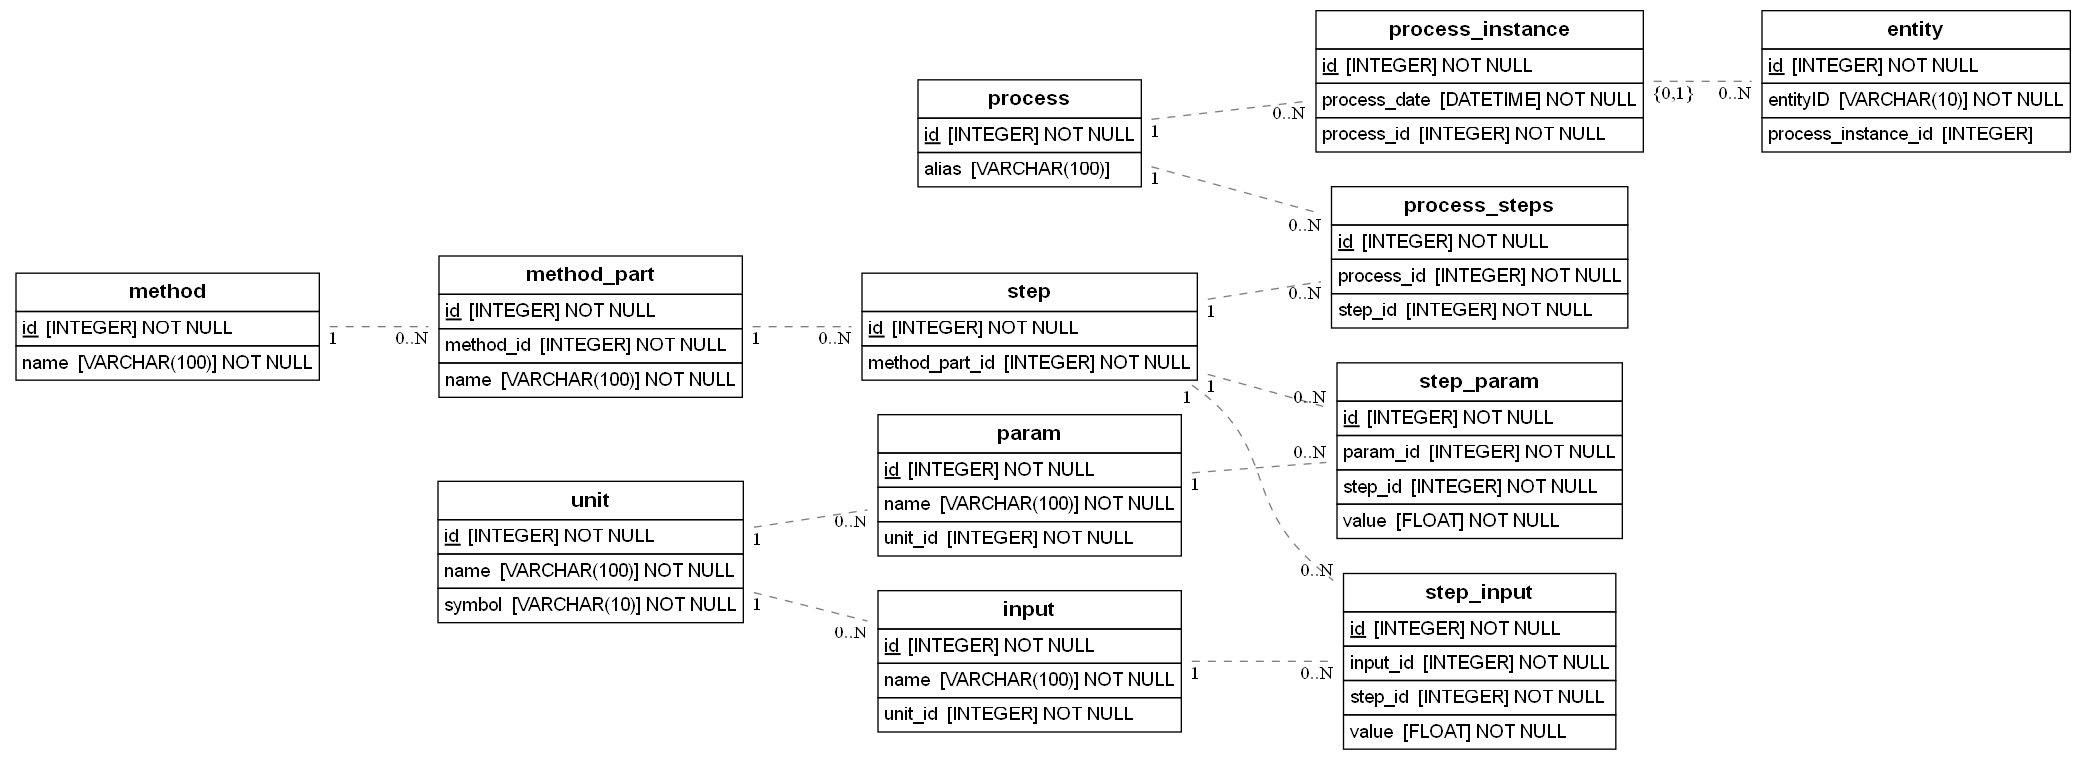
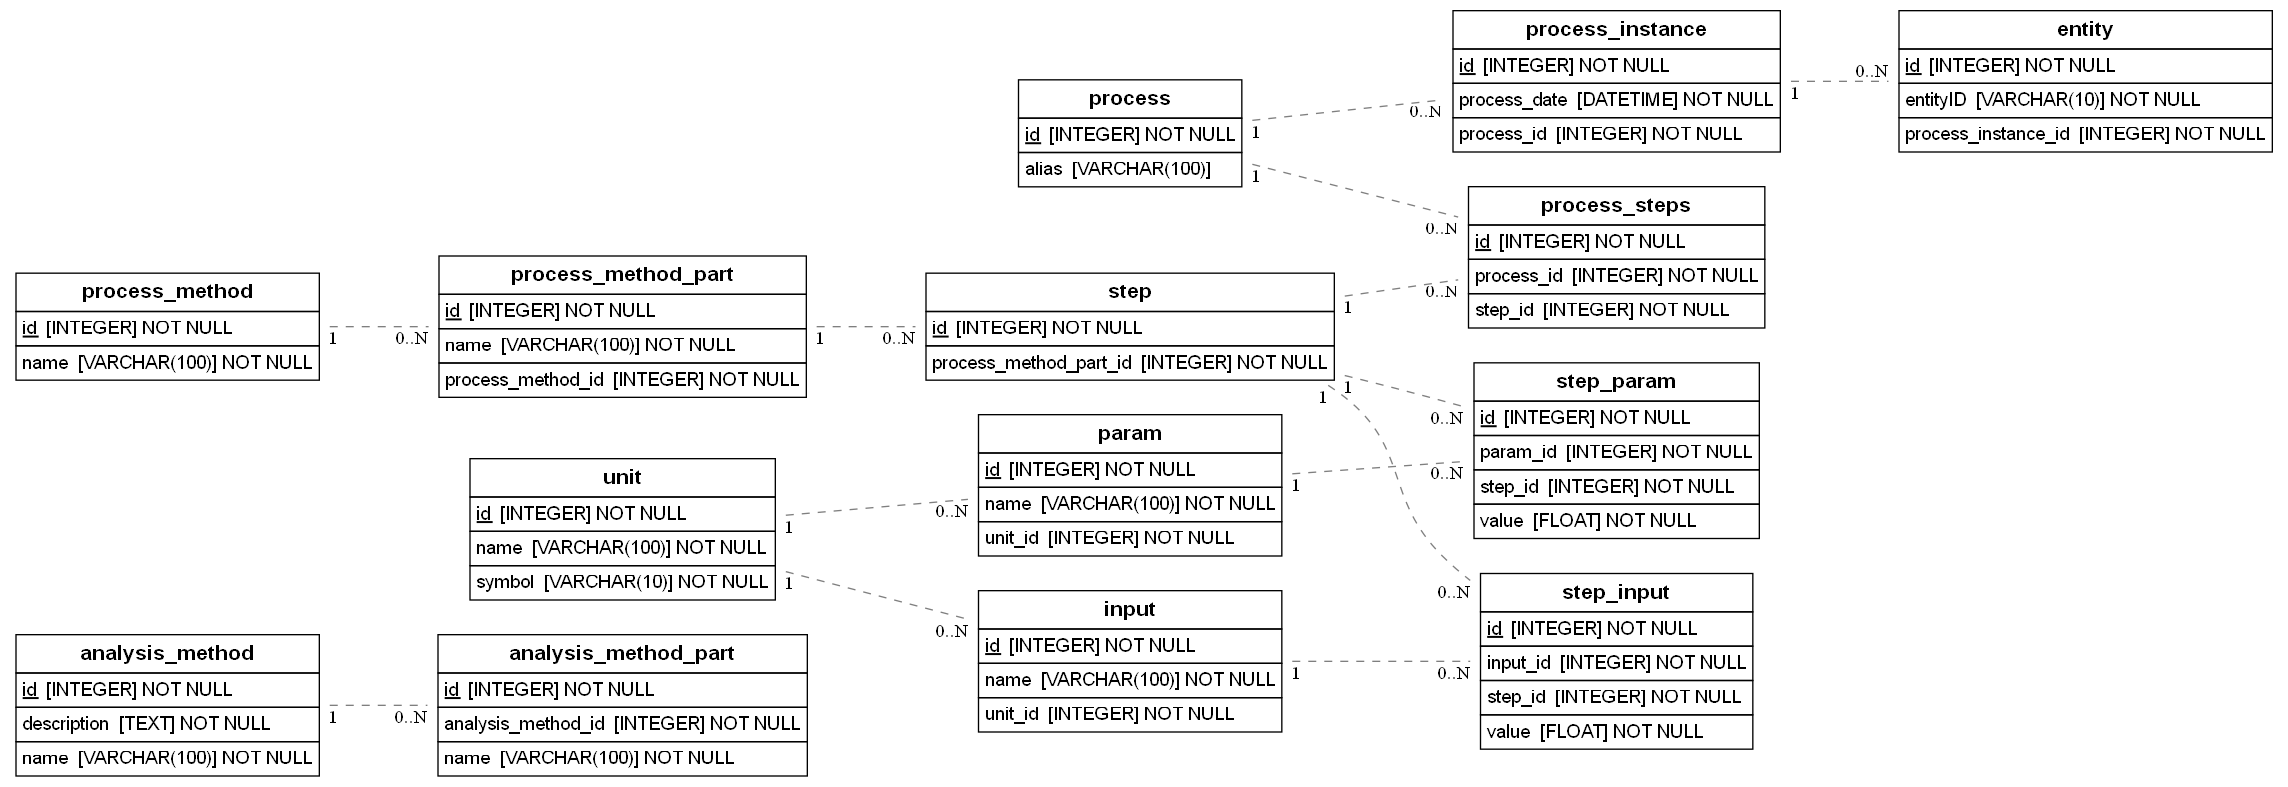
added analysis method table

diff --git a/process_navigator/models/process.py b/process_navigator/models/process.py
@@ -1,4 +1,4 @@
-""" Contains sqlalchemy models for the process_navigator app. """
+"""Contains sqlalchemy models for the process_navigator app."""
 
 from process_navigator.extensions import db
 
@@ -38,10 +38,12 @@ class Process(db.Model):
 # each Step describes a way to combine Inputs, Parameters and Method Parts including any quantities associated. Each Step is unique thus any unique combination of Inputs, Parameters and Method Parts will be a new Step
 class Step(db.Model):
     id = db.Column(db.Integer, primary_key=True)
-    method_part_id = db.Column(
-        db.Integer, db.ForeignKey("method_part.id"), nullable=False
+    process_method_part_id = db.Column(
+        db.Integer, db.ForeignKey("process_method_part.id"), nullable=False
     )
-    method_part = db.relationship("MethodPart", backref=db.backref("step", lazy=True))
+    process_method_part = db.relationship(
+        "ProcessMethodPart", backref=db.backref("step", lazy=True)
+    )
 
     def __repr__(self):
         return f"<Step {self.id}>"
@@ -58,32 +60,36 @@ class ProcessSteps(db.Model):
     step = db.relationship("Step", backref=db.backref("process_steps", lazy=True))
 
     def __repr__(self):
-        return f"<ProcessSteps {self.id}>"
+        return f"<Process Steps {self.id}>"
 
 
 # Method describe how a Process is carried out,
 # such as using a piece of equipment or how to handle an Entity
 
 
-class Method(db.Model):
+class ProcessMethod(db.Model):
     id = db.Column(db.Integer, primary_key=True)
     name = db.Column(db.String(100), nullable=False)
 
     def __repr__(self):
-        return f"<Method {self.name}>"
+        return f"< Process Method {self.name}>"
 
 
 # The Method is broken down into method parts to describe different steps in the process.
 # This is a one to many relationship as a Method can have many Method Parts
 # but a Method Part can only belong to one Method
-class MethodPart(db.Model):
+class ProcessMethodPart(db.Model):
     id = db.Column(db.Integer, primary_key=True)
     name = db.Column(db.String(100), nullable=False)
-    method_id = db.Column(db.Integer, db.ForeignKey("method.id"), nullable=False)
-    method = db.relationship("Method", backref=db.backref("method_part", lazy=True))
+    process_method_id = db.Column(
+        db.Integer, db.ForeignKey("process_method.id"), nullable=False
+    )
+    processmethod = db.relationship(
+        "ProcessMethod", backref=db.backref("process_method_part", lazy=True)
+    )
 
     def __repr__(self):
-        return f"<MethodPart {self.name}>"
+        return f"<Process Method Part {self.name}>"
 
 
 class Param(db.Model):

diff --git a/process_navigator/models/analysis.py b/process_navigator/models/analysis.py
@@ -1,0 +1,28 @@
+from process_navigator.extensions import db
+
+
+class AnalysisMethod(db.Model):
+    id = db.Column(db.Integer, primary_key=True)
+    name = db.Column(db.String(100), nullable=False)
+    description = db.Column(db.Text, nullable=False)
+    analysis_method_part = db.relationship(
+        "AnalysisMethodPart", backref=db.backref("analysis_method", lazy=True)
+    )
+
+    def __repr__(self):
+        return f"<Analysis Method {self.name}>"
+
+
+class AnalysisMethodPart(db.Model):
+    id = db.Column(db.Integer, primary_key=True)
+    name = db.Column(db.String(100), nullable=False)
+    analysis_method_id = db.Column(
+        db.Integer, db.ForeignKey("analysis_method.id"), nullable=False
+    )
+
+    analysismethod = db.relationship(
+        "AnalysisMethod", backref=db.backref("analysis_method_part", lazy=True)
+    )
+
+    def __repr__(self):
+        return f"<Analysis Method Part {self.name}>"

diff --git a/process_navigator/models/__init__.py b/process_navigator/models/__init__.py
@@ -1,1 +1,2 @@
+from .analysis import *
 from .process import *
